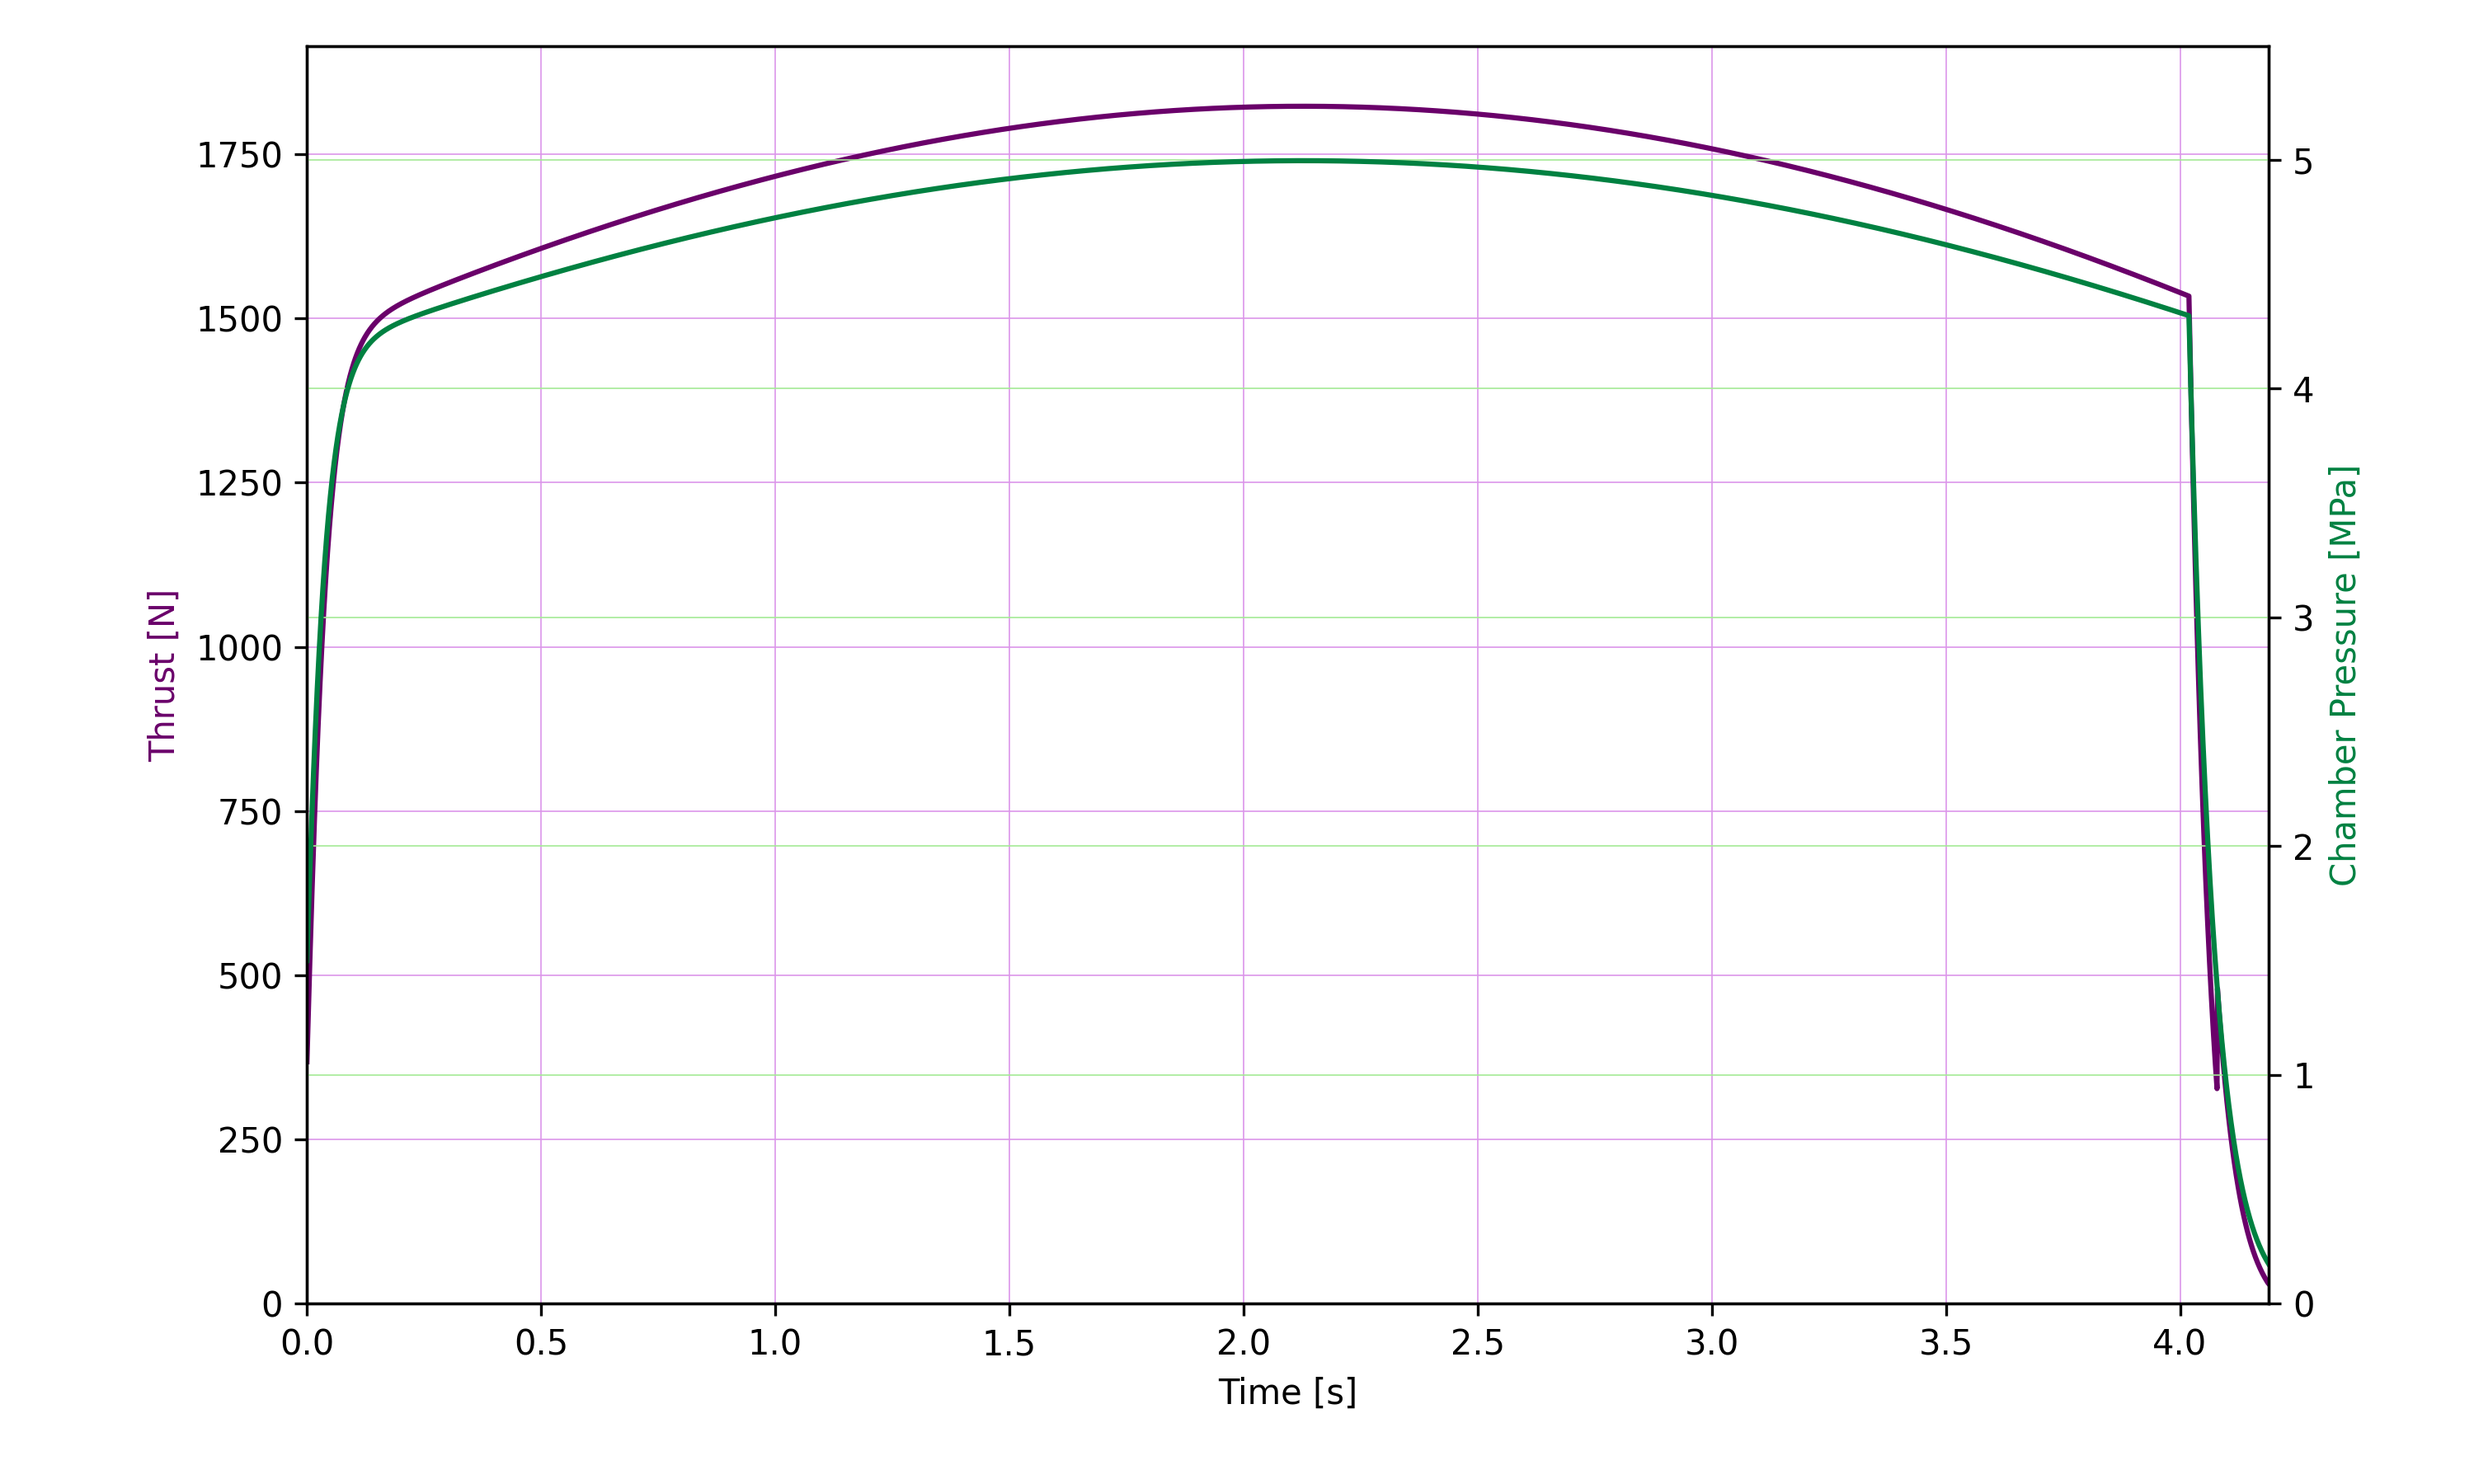
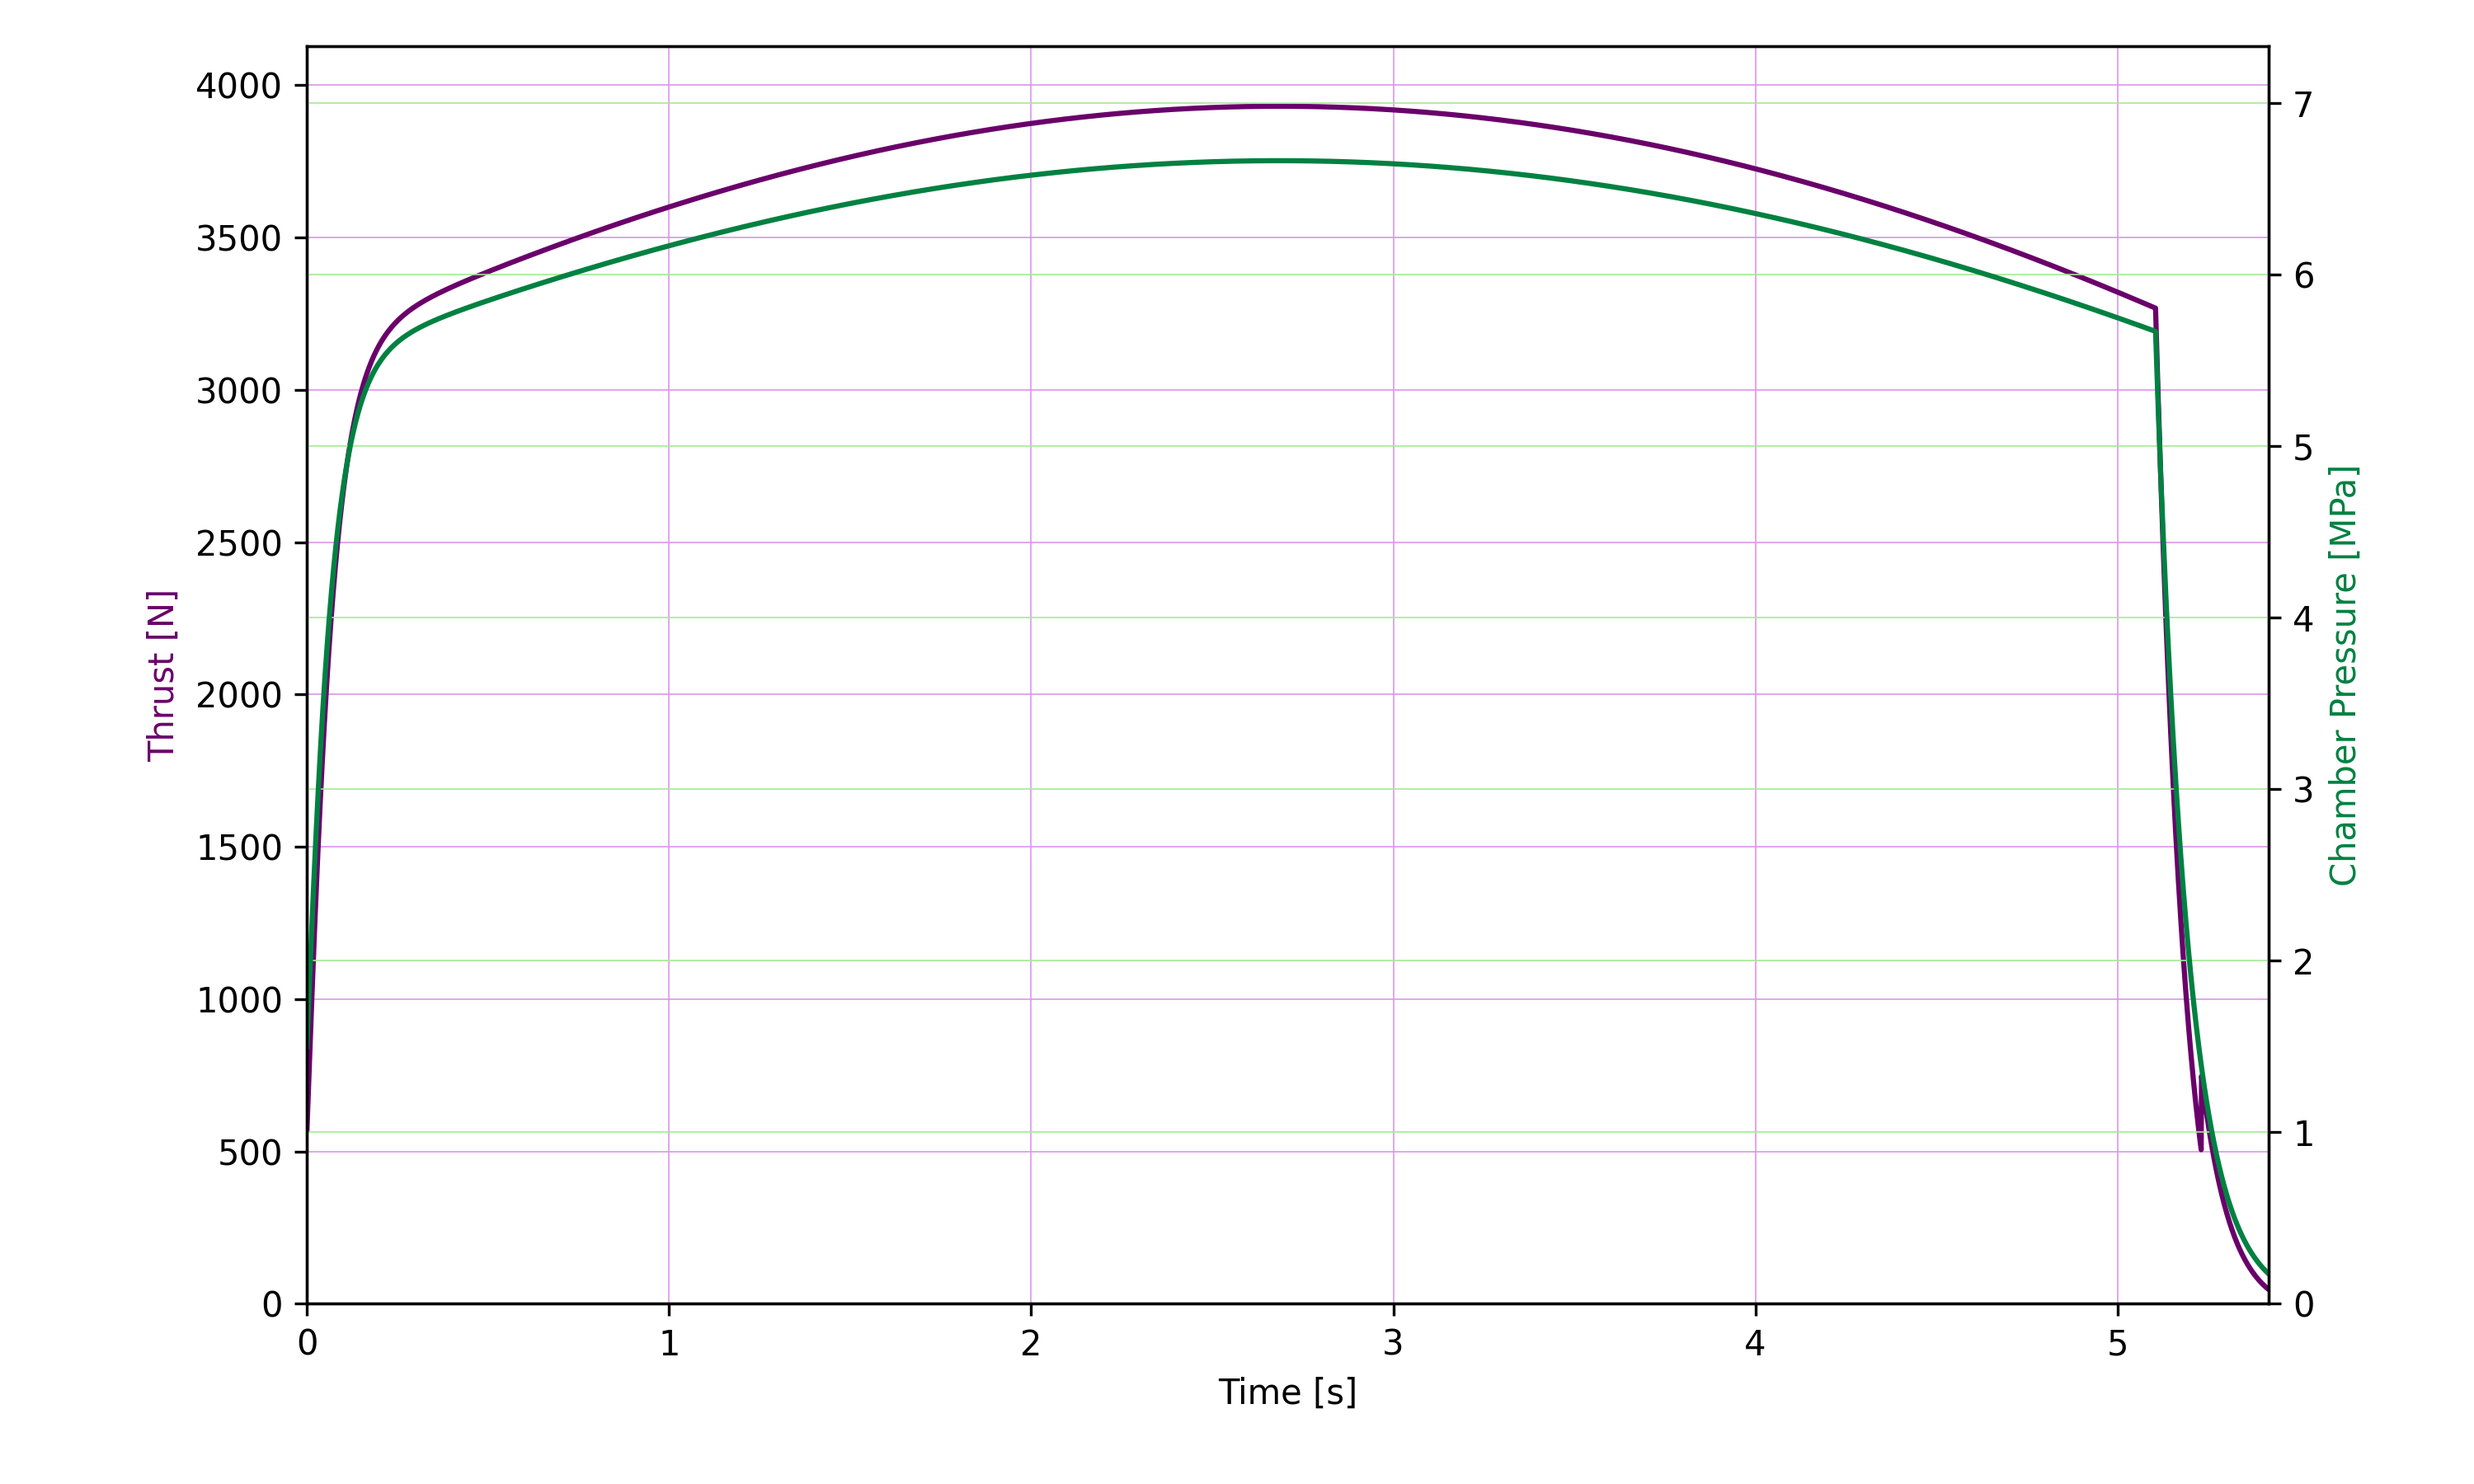
Version Alpha

diff --git a/SRM Solver.py b/SRM Solver.py
@@ -88,11 +88,11 @@ sf = 4
 # Grain count
 N = 7
 # Grain external diameter [m]
-D_grain = 75e-3
+D_grain = 103e-3
 # Grains 1 to 'N' core diameter [m]
-D_core = np.array([32, 32, 32, 32, 32, 32, 32]) * 1e-3
+D_core = np.array([42, 42, 42, 42, 42, 42, 42]) * 1e-3
 # Grains 1 to 'N' length [m]
-L_grain = np.array([130, 130, 130, 130, 130, 130, 130]) * 1e-3
+L_grain = np.array([176, 176, 176, 176, 176, 176, 176]) * 1e-3
 
 # PROPELLANT CHARACTERISTICS INPUT
 # Propellant name
@@ -108,7 +108,7 @@ P_igniter = 1.5e6
 
 # NOZZLE DIMENSIONS
 # Throat diameter [m]
-D_throat = 18.5e-3
+D_throat = 23e-3
 # Nozzle material yield strength [Pa]
 Y_nozzle = 215e6
 # Nozzle divergent and convergent angle [degrees]
@@ -119,11 +119,11 @@ C2 = 0.00000
 
 # COMBUSTION CHAMBER
 # Chamber inside diameter [m]
-D_in = 82.55e-3
+D_in = 114.3e-3
 # Chamber outside diameter [m]
-D_out = 88.9e-3
+D_out = 127e-3
 # Grain spacing [m]
-grain_spacing = 10e-3
+grain_spacing = 15e-3
 # Chamber yield strength [Pa]
 Y_cc = 240e6
 # Bulkhead yield strength [Pa]
